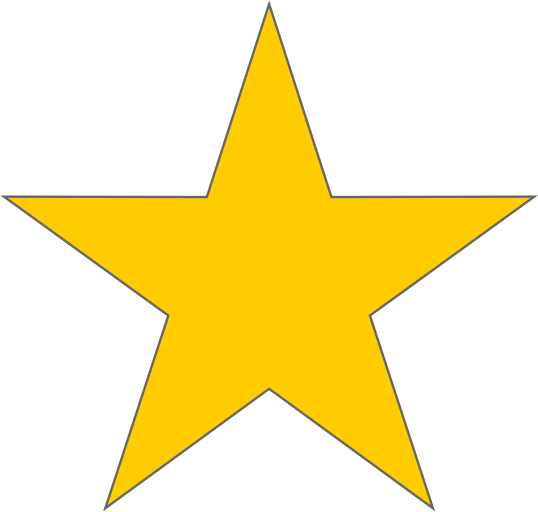
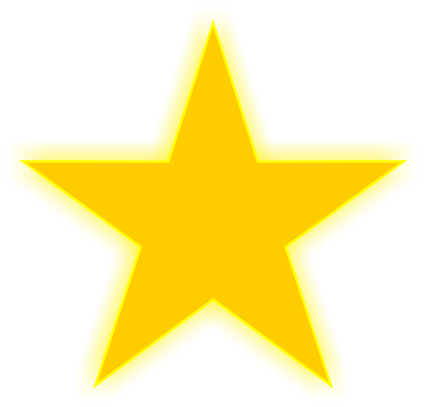
Agregado de estrellas blancas

Changed region(s): [[0.0, 0.0, 1.0, 1.0]]

diff --git a/js/descripcion.js b/js/descripcion.js
@@ -2,7 +2,7 @@
 const arrayDeJson = localStorage.getItem("productos");
 
 //Guarda el "ID" del boton en la siguiente variable:
-let idBoton = sessionStorage.getItem("idBoton");
+let idBoton = localStorage.getItem("idBoton");
 console.log("El ID del botón presionado es:", idBoton);
 
 console.log("El JSON en el localStorage fue descargado exitosamente en la variable 'arrayDeJson':")
@@ -21,6 +21,15 @@ console.log('Este es JSON convertido a Objeto Js:', productosObjetoJs);
 //Sección que contendrá la descripción de un producto en particular:
 const seccionDescripcion = document.querySelector('.productos-descripcion');
 const seccionCaracteristicas = document.querySelector('.caracteristicas');
+
+//Constante que contiene la URL de la estrella amarilla: 
+const estrella = "./img/estrella.png";
+
+//Constante que contiene la URL de la estrella blanca: 
+const estrellaBlanca = "./img/estrella-blanca.png";
+
+//Constante que contiene el número de estrellas de un producto:
+const cantidadDeEstrellasDelProducto = productosObjetoJs[idBoton].puntuacion.length;
 
 //Sólo se obtienen las CLAVES del objeto que le pase del array: 
 let claves = Object.keys(productosObjetoJs[idBoton].caracteristicas); 
@@ -60,7 +69,9 @@ divContainerProducto.innerHTML = `<h2>${productosObjetoJs[idBoton].nombre}</h2>`
 divContainerProducto.appendChild(etiquetaImg);
 divContainerProducto.innerHTML += `<p class="precio">${productosObjetoJs[idBoton].precio}</p>`
 //Función que agrega estrellas al contenedor de estrellas:
-agregarEstrellas(divContenedorEstrellas, productosObjetoJs[idBoton].estrellas);
+agregarEstrellas(divContenedorEstrellas, cantidadDeEstrellasDelProducto, estrella);
+//Ahora agrego las estrellas blancas al contenedor de estrellas: 
+agregarEstrellas(divContenedorEstrellas, (5 - cantidadDeEstrellasDelProducto), estrellaBlanca);
 divContainerProducto.appendChild(divContenedorEstrellas);
 divContainerProducto.innerHTML += `<button class="boton-volver">Volver a la página principal</button>`
 //Se agrega todo lo creado anteriormente a la sección 'seccionDescripcion':
@@ -82,12 +93,10 @@ const botonVolver = document.querySelector('.boton-volver');
 
 botonVolver.addEventListener('click', volverALaPaginaPrincipal);
 
-//Toma el valor de la clave "estrellas" del JSON y agrega a cada producto tantas estrellas como diga el JOSN:
-function agregarEstrellas(container, cantidad){
-    let urlEstrella = "./img/estrella.png";
-    
+//Toma agrega a cada producto tantas estrellas como diga la clave 'puntuacion' del JOSN:
+function agregarEstrellas(container, cantidad, colorDeEstrella){
     for(let i=0; i<cantidad; i++){
-        container.innerHTML += `<img class="estrella" src="${urlEstrella}"></img>`;        
+        container.innerHTML += `<img class="estrella" src="${colorDeEstrella}"></img>`;        
     }    
 }
 

diff --git a/js/script.js b/js/script.js
@@ -4,6 +4,9 @@ let datosJSON;
 //Variable que almacenará el dato JSON transformado a Objeto JavaScript: 
 let deJSONaObjetoJs;
 
+//PROVISORIO: FUNCIÓN QUE BORRARÁ EL LOCAL STORAGE PARA ACTUALIZAR LOS DATOS DEL JSON:
+localStorage.clear();
+
 //Sección que contendrá la lista de productos: 
 const listaDeProductos = document.querySelector('.productos-semidescripcion');
 
@@ -80,8 +83,8 @@ function obtenerIdDeBotonesYCargarloAlSessionStorage(){
             // Obtener el id del botón clickeado:
             let botonId = event.target.id;
                         
-            //Sube el "id" del botón al "sessionStorage":
-            sessionStorage.setItem("idBoton", botonId);
+            //Sube el "id" del botón al "localStorage":
+            localStorage.setItem("idBoton", botonId);
 
             //Va a la página de productos.html:
             window.location.href = "descripcion.html"
